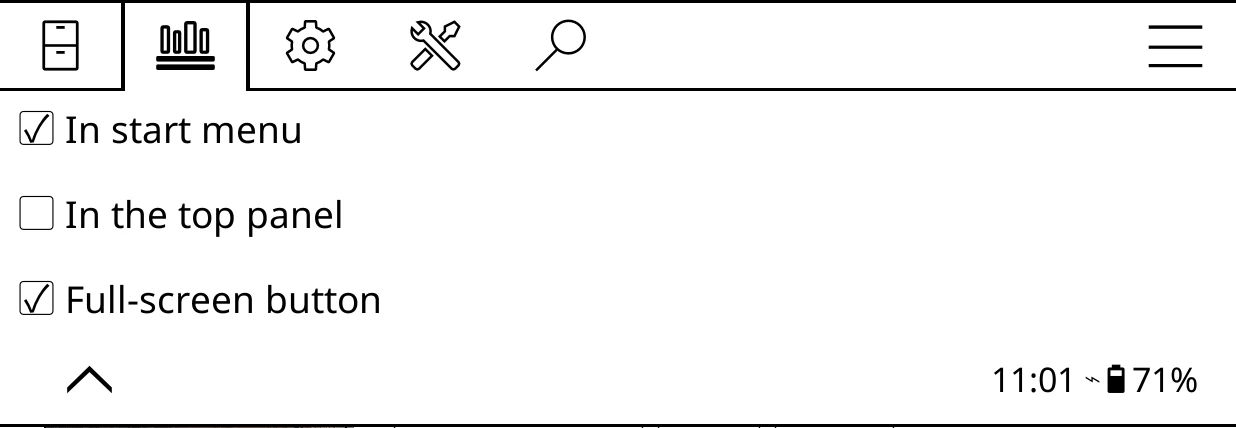
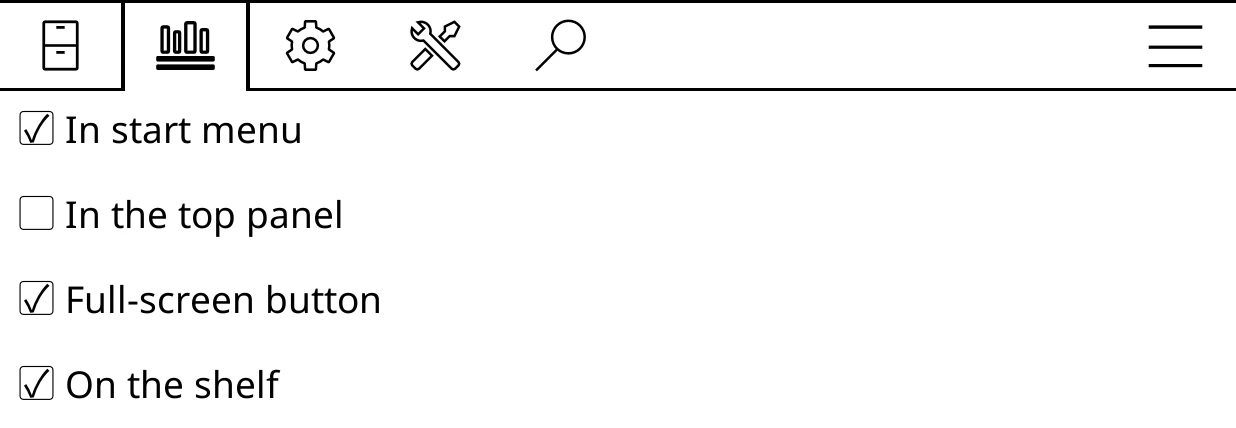
6.0.3: Micro modules > On the shelf; status line tap no longer leaves full screen

Changed region(s): [[0.0, 0.972, 1.0, 1.0], [0.0, 0.8505, 0.246, 0.9416], [0.7994, 0.8505, 0.9838, 0.9416]]

diff --git a/docs/reference/menus.md b/docs/reference/menus.md
@@ -485,7 +485,7 @@ Used by the status line, each top panel section, each List view line and custom 
 
 ### Micro modules
 
-**Bookshelf > Settings > Micro modules**. Where micro-modules can appear. Turn all three off to switch micro-modules off entirely; the row then reads **Micro modules: Off**. See [Micro-modules](../customise/micro-modules.md).
+**Bookshelf > Settings > Micro modules**. Where micro-modules can appear. Turn all four off to switch micro-modules off entirely; the row then reads **Micro modules: Off**. See [Micro-modules](../customise/micro-modules.md).
 
 !shot:side micro-modules-menu | Bookshelf > Settings > Micro modules
 
@@ -497,6 +497,9 @@ Used by the status line, each top panel section, each List view line and custom 
 
 **Full-screen button**
 :   A footer button that opens all your modules full screen. Default: on (off if you upgraded from an older version).
+
+**On the shelf**
+:   Modules standing among a shelf's books. Off, shelves show only their books and ornaments, and **Add a module to this shelf…** and **Pin here** are not offered; the modules come back as they were when you turn it on. Default: on.
 
 ### Start menu
 

diff --git a/docs/reference/whats-new.md b/docs/reference/whats-new.md
@@ -4,9 +4,14 @@ description: What's new in recent versions of Bookshelf, with links to where eac
 
 # What's new
 
-<span class="tag">These pages describe Bookshelf 6.0</span>
+<span class="tag">These pages describe Bookshelf 6.0.3</span>
 
 Full release notes for every version are on [GitHub Releases](https://github.com/AndyHazz/bookshelf.koplugin/releases), and in the app under **Bookshelf > Updates > View changelog**.
+
+## 6.0.3
+
+**Turn off modules among your books**
+:   **Micro modules > On the shelf** hides every module standing among a shelf's books, and the books take their space back. Turn it on again and they return where they were. [More](../customise/micro-modules.md#on-a-shelf-among-your-books)
 
 ## 6.0
 

diff --git a/docs/reference/gestures.md b/docs/reference/gestures.md
@@ -35,7 +35,7 @@ Most of Bookshelf's own gestures can be switched off one by one under **Bookshel
 
 Pinch and spread change how much fits on the shelf, never the style. On Covers this is shared by every shelf; on List and Spines it is that shelf's own row count.
 
-With **Swipe down leaves full screen shelves** off, a swipe down in full screen refreshes the library instead. You can still bring the top panel back by tapping the status strip or the book icon at the start of the shelf menu.
+With **Swipe down leaves full screen shelves** off, a swipe down in full screen refreshes the library instead. You can still bring the top panel back with the book icon at the start of the shelf menu.
 
 ## Top panel
 

diff --git a/docs/customise/micro-modules.md b/docs/customise/micro-modules.md
@@ -97,6 +97,8 @@ A module can stand among a shelf's books, like another book: a clock between two
 
 It works on shelves shown as covers or spines. On covers a module takes a cover's size and frame; on spines it stands like a face-out cover. **Long-press it** later to move, resize or remove it.
 
+To hide them all at once, turn off **Bookshelf > Settings > Micro modules > On the shelf**. The books take their space back, and the modules return where they were when you turn it on again.
+
 !clip shelf-modules | A bat from the Halloween pack, among the covers on Home.
 
 ## The modules
